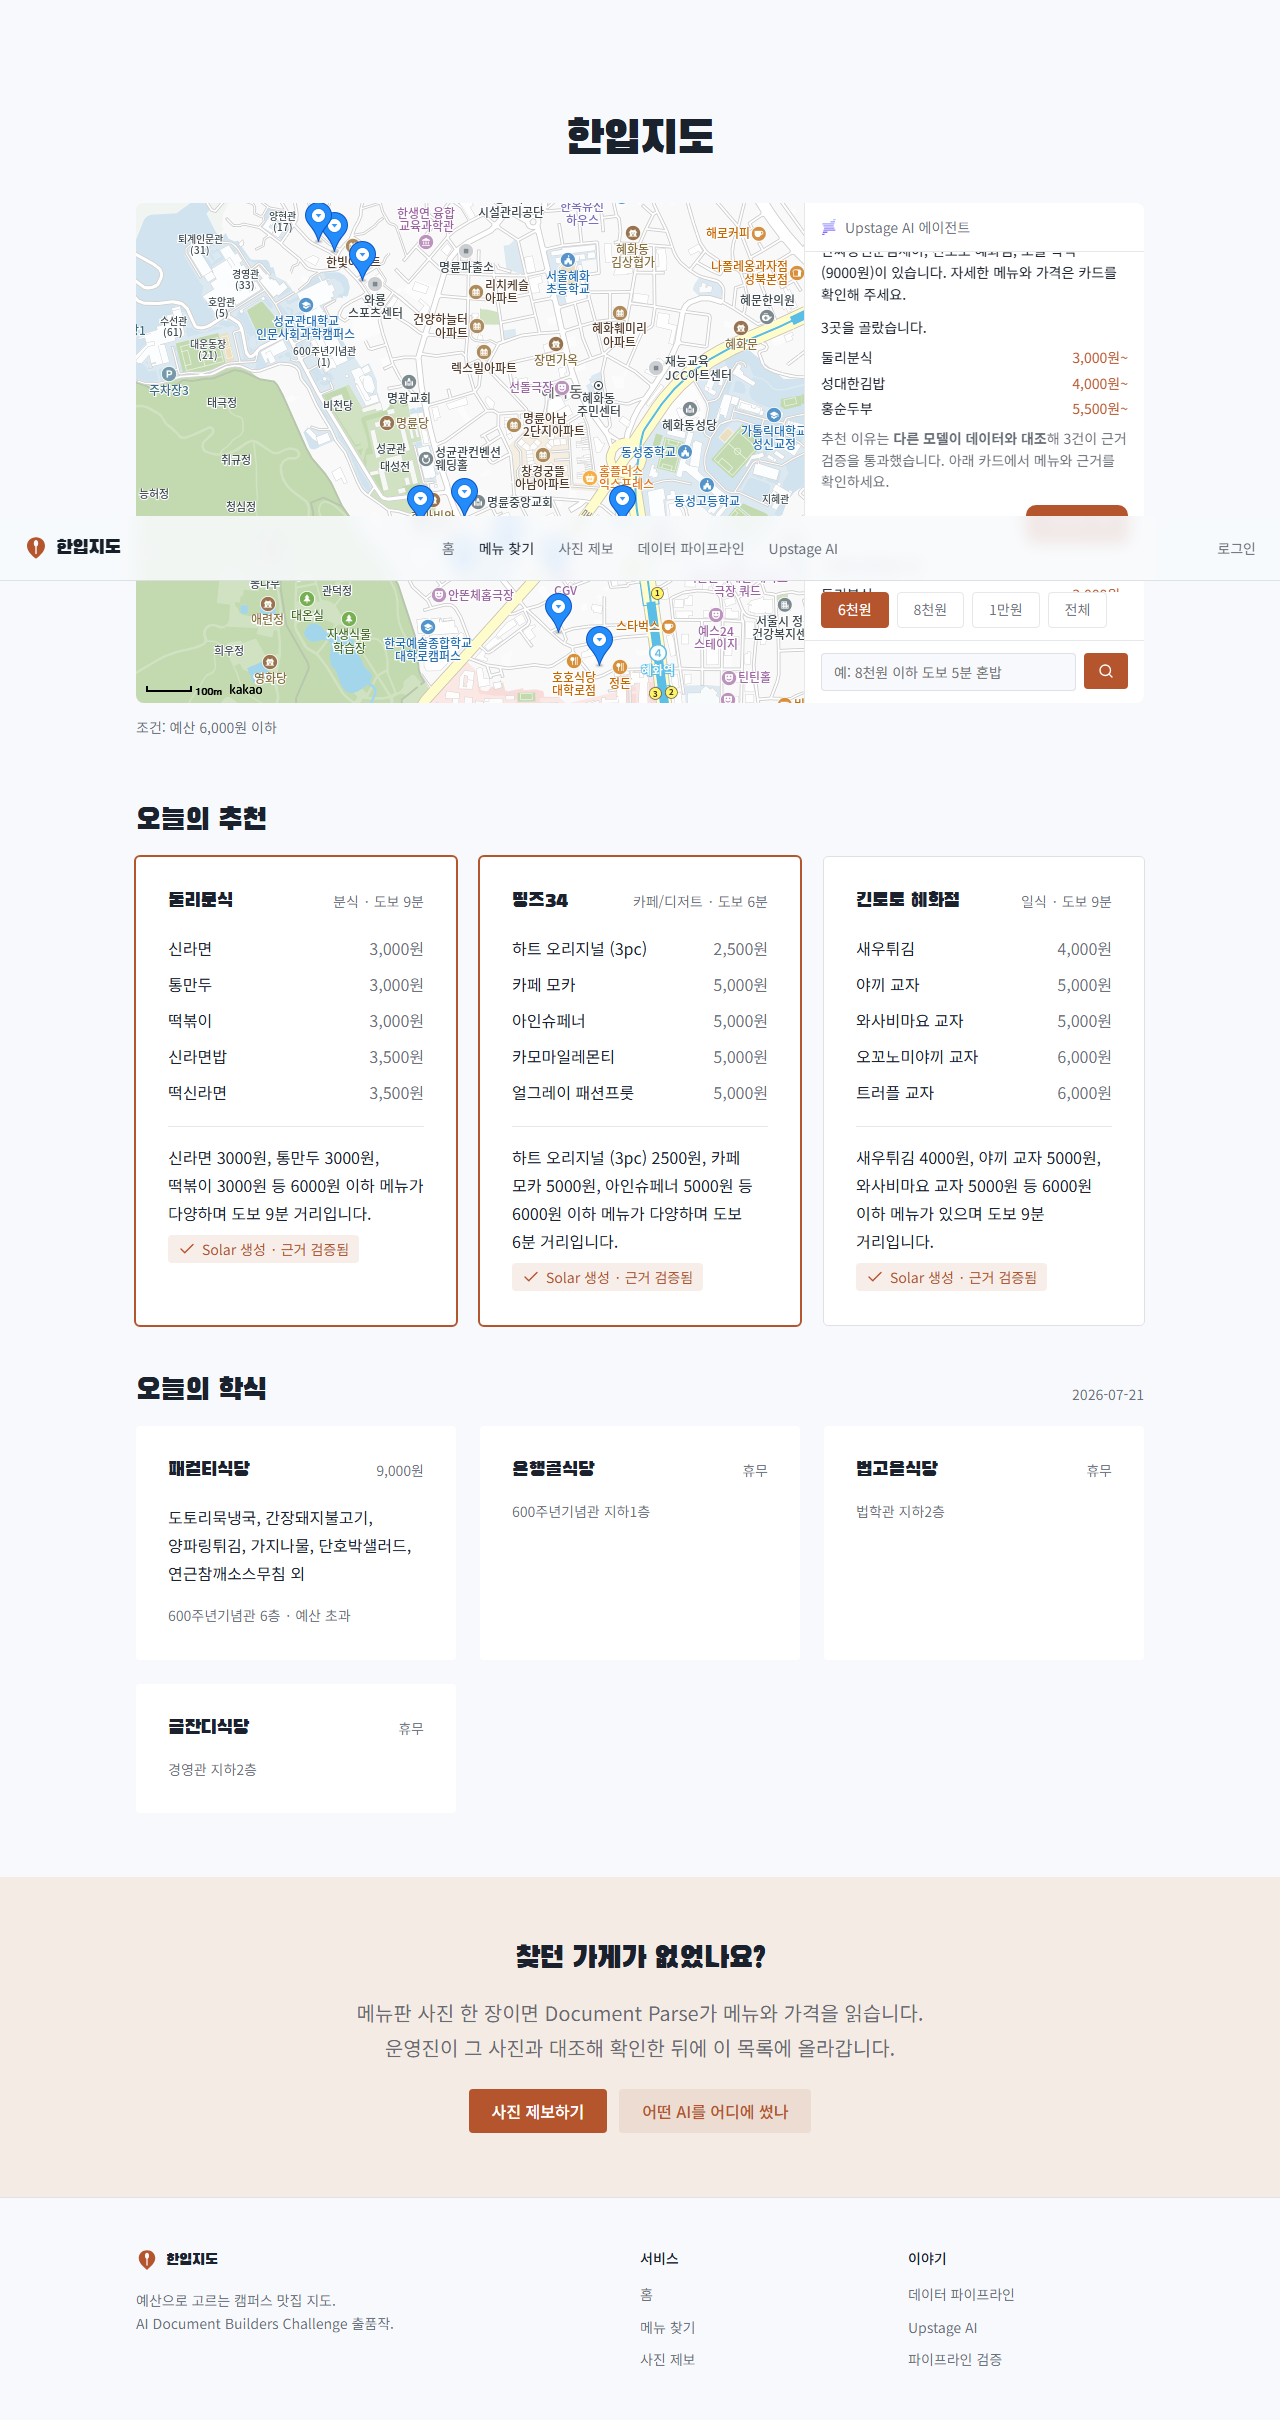
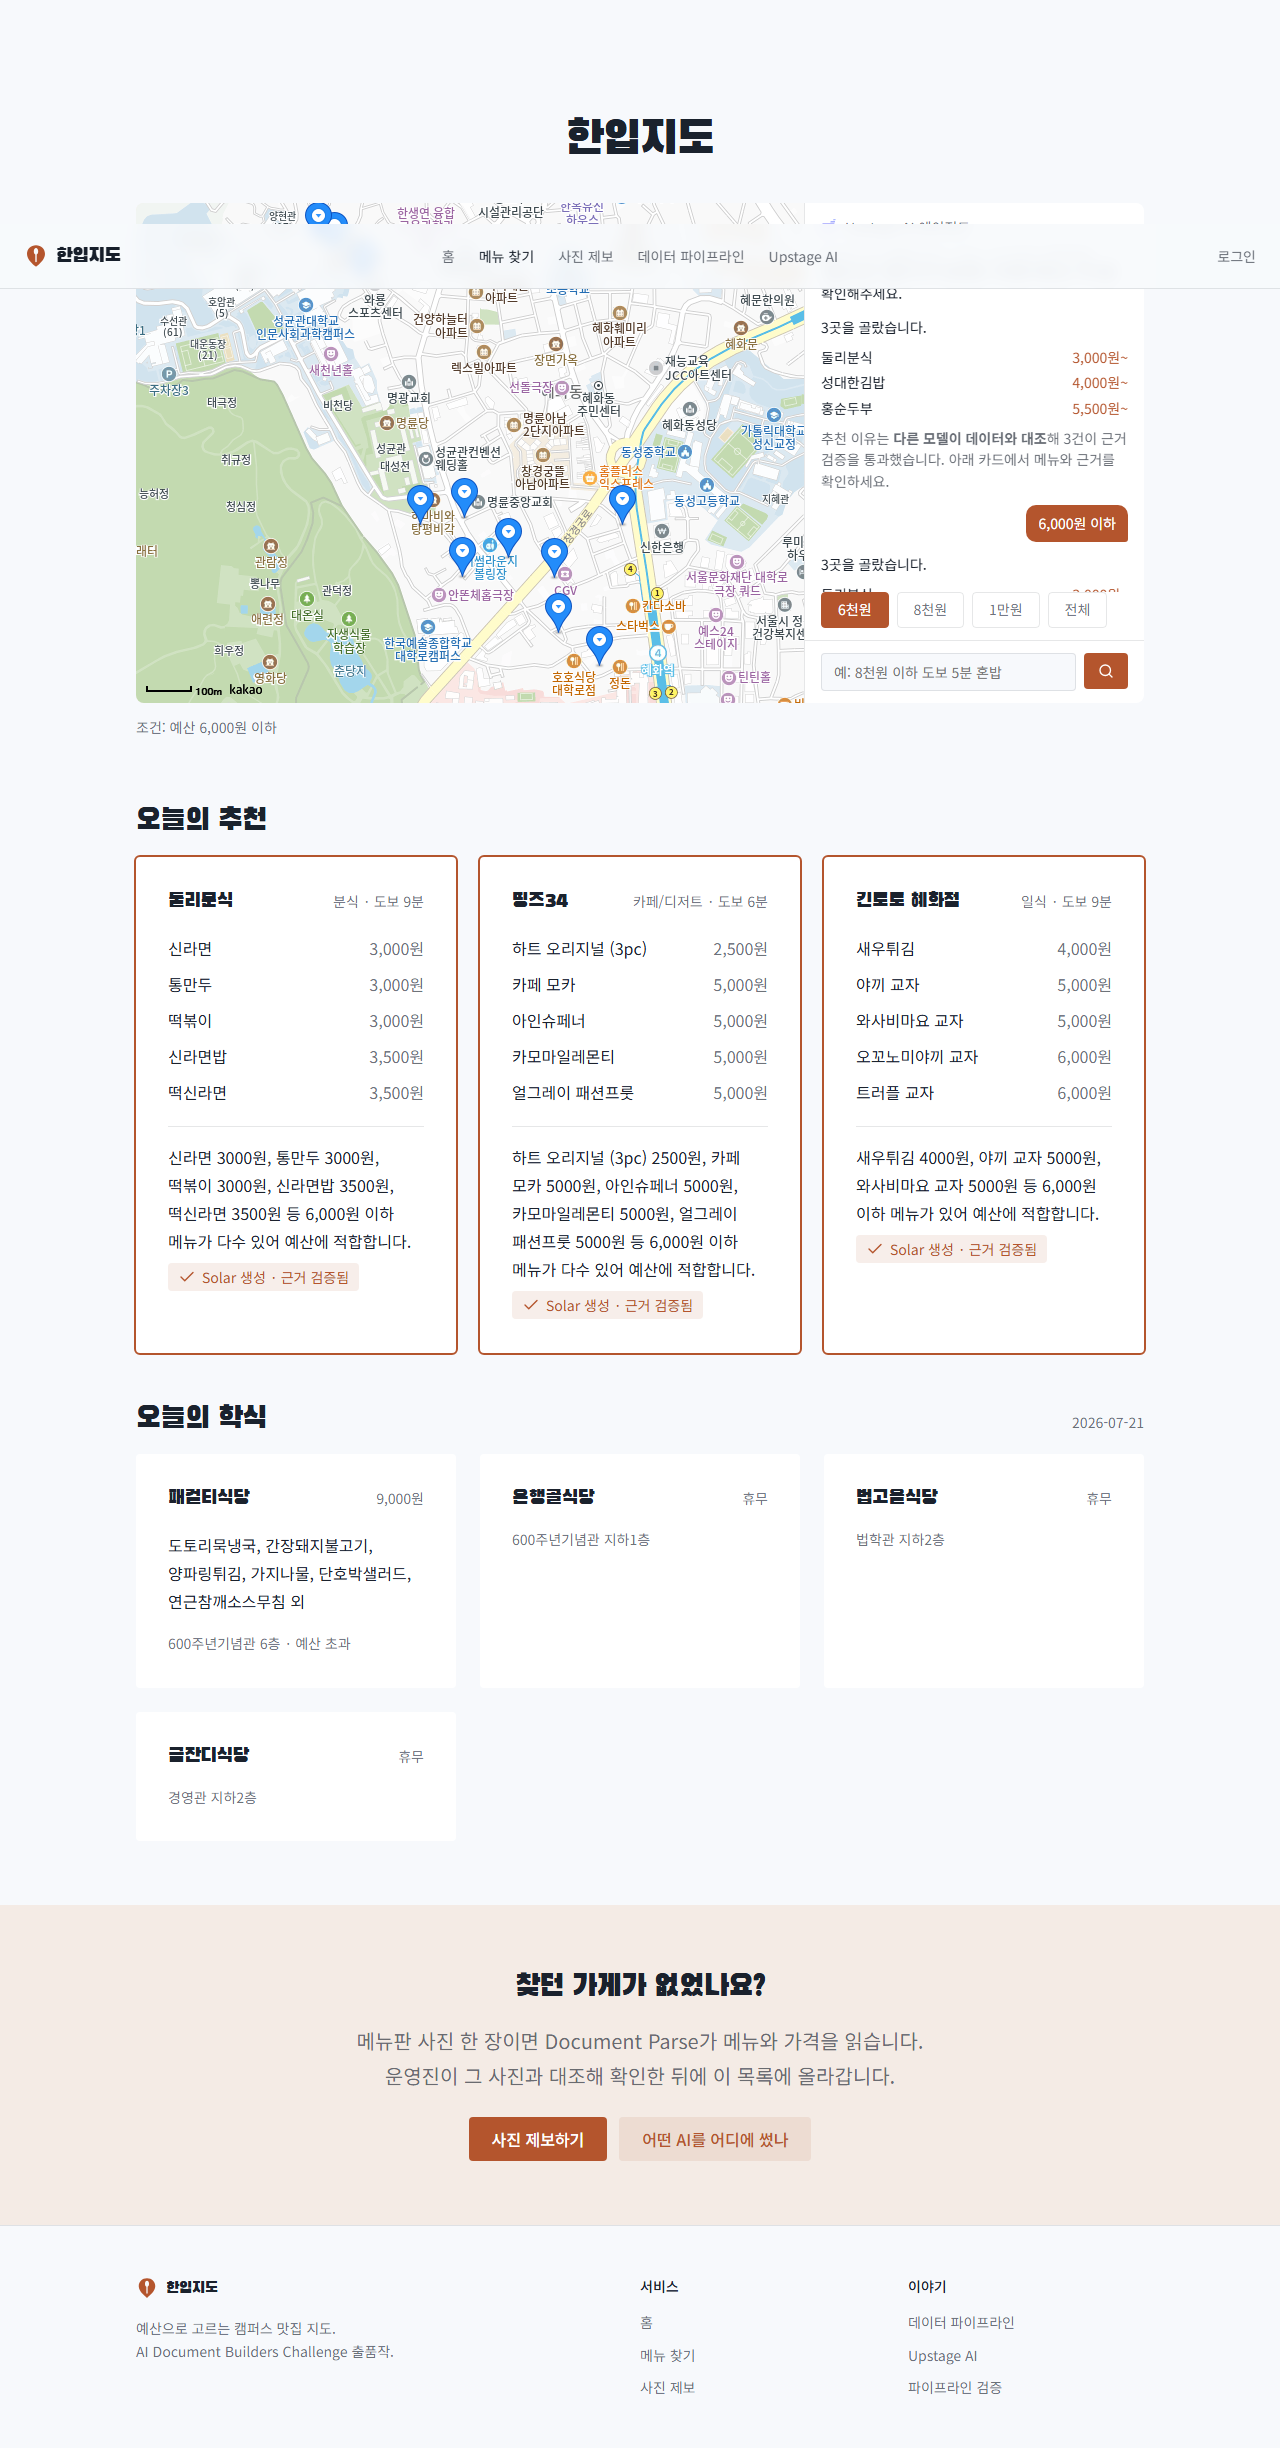
test(DR10): 품질 마감 통합 검증
- 단위 29/29(조건 추출) + 41/41(사이드 판정), smoke 14/14, 6페이지 200 / test.html 404,
  곁들임 회귀 1,000·2,000원 picks 0, 콘솔 red 0.
- smoke 허수 재확인: 학식 셀렉터 2개를 깨뜨려 배포 → exit 1(5항목 FAIL), 원복 후 14/14 exit 0.
- 독립 검증 1차 confirmed. 지적된 cron 메서드 가드 추가(GET→401, POST/PUT→405) —
  시크릿만 보고 통과시키면 시크릿이 새는 날 POST 로도 돌릴 수 있다.
- verification/matrix.md #113-132.

이번에 값비쌌던 것: 자동화가 새 실패 유형을 데려왔다. 사람이 돌릴 땐 안 보이던 멱등 결함이
cron 첫 실행에서 바로 터졌다 — 자동화는 "돌아간다"가 아니라 "두 번 돌려도 같은가"로 본다.

diff --git a/api/cron/crawl-cafeteria.js b/api/cron/crawl-cafeteria.js
@@ -17,6 +17,8 @@ import { crawlCafeteria, toSheetRows, dedupeAgainst, todayKST } from "../_lib/ca
 import { listRows, appendRows, sheetWriteReady } from "../_lib/sheet-write.js";
 
 export default async function handler(req, res) {
+  // Vercel Cron 은 GET 만 보낸다. 시크릿만 보고 통과시키면 시크릿이 새는 날 POST 로도 돌릴 수 있다.
+  if (req.method !== "GET") return res.status(405).json({ error: "GET only", code: "method_not_allowed" });
   const secret = process.env.CRON_SECRET;
   if (secret) {
     const auth = req.headers?.authorization ?? "";

diff --git a/verification/matrix.md b/verification/matrix.md
@@ -280,3 +280,36 @@ E2E 대상: `experiments/parse-poc/photos/web/web-10-파스타마켓혜화본점
   문장만 통과하고 다음 문형에서 샌다(2회차). 확정적으로 뽑히는 값은 코드가 뽑고, 모델은
   사람 말로 답하는 일만 맡는 구조로 바꾼 뒤에야 회귀가 멈췄다.
 - 프롬프트 회귀는 단위 테스트가 못 잡는다 → `scripts/test-chat-extract.mjs` 29종으로 문형을 고정했다.
+
+## DR10 — 품질 마감 (2026-07-21)
+
+전수 QA 감사(독립) 선행 → BLOCKER 1·MAJOR 3·MINOR 4 확보 후 착수.
+
+| # | 항목 | 결과 |
+|---|---|---|
+| 113 | **BLOCKER: 대화 필터 원문 복귀** (step-1) | `search=false` 턴 문장 필터가 **전부 걸러지면 원문으로 되돌아갔다** — 필터를 안 건 것과 같다. 실제로 "asdkjqwoie…" 입력에 "8,000원 이하 소반·홍순두부 추천" 이 화면의 다른 가게 카드와 함께 나갔다. 안전 문장으로 대체 |
+| 114 | 조건 없는 입력 | 5종 × 2회 = **10/10 어긋남 0**(금액 주장·카드 안내 0건) |
+| 115 | **필터 프로브** | 전 문장이 금액·카드로 채워진 응답을 넣어도 안전 문장으로 떨어지고, budget 있는 턴은 금액 문장 보존 |
+| 116 | 학식 cron (step-2) | `vercel.json` crons 매일 21:10 UTC(06:10 KST). 시크릿 없이 → **401**, GET 외 메서드 → **405** |
+| 117 | **cron 중복 사고와 원인** | 첫 실행이 같은 5행을 또 넣었다. 시트가 날짜를 `2026-07-12T15:00:00.000Z`(KST 자정의 UTC 표기)로 돌려주는데 크롤 값은 `2026-07-13` 이라 **멱등 키가 영원히 안 맞았다**. `normDate` 로 해소 → 재실행 `appended 0 / skipped 5` |
+| 118 | 읽기 측 중복 제거 | 이미 들어간 중복은 화면에 남으므로 `loadSheetData` 에서도 걸러낸다 → 학식 14행 → **9행**, 오늘 카드 메뉴 12개(두 배 아님) |
+| 119 | **크롤 실패 프로브** | 학교 페이지가 죽은 상황(잘못된 base 주입) → `status:"error"` · 시트 미변경 · 500 아님 |
+| 120 | 크롤 로직 공유 | 서버·스크립트가 `api/_lib/cafeteria-crawl.js` 하나를 쓴다. 스크립트 124→**55줄** |
+| 121 | 데모 마커 (step-3) | 회색 원 → SVG 핀. **마커 22개 = 시뮬 대상 22곳**(좌표 보유 23곳 중 1곳 제외) |
+| 122 | 데모 입력 CTA | 대본 정지 → "여기는 소개용 데모" 안내 + `/app.html?q=…` 버튼. 클릭 시 실제 검색으로 카드 3장 + 근거 배지. 카드 높이 485 고정·스크롤바 0 |
+| 123 | 모바일 nav (step-4) | 390px 에서 `Upstage AI` 13px 잘림 — **실제로는 스크롤됐지만 알 방법이 없어 고장으로 읽혔다**. 여백 축소 + 오른쪽 페이드, 끝에 닿으면 페이드 해제(`nav.js`) |
+| 124 | nav 일관성 | 배포본 5페이지 전부 **5항목**(contribute.html 에 빠졌던 `Upstage AI` 추가) |
+| 125 | `/test.html` | 배포 제외 → **404**. 파일은 원복 경로로 보존 |
+| 126 | 헤드라인 간격 | `.amt` 고정폭 가운데 정렬 탓에 "8천원 으로" 로 띈 것처럼 보임 → 오른쪽 정렬. 금액 길이 3종에서 확인 |
+| 127 | review 토큰 폼 | `<form>` 으로 감싸 콘솔 경고 해소 + 엔터 제출. click 핸들러를 submit 으로 이관 |
+| 128 | 이슈 ⑦ (step-5) | 칵테일 4행 `비고='사이드'` → `isSide=true`. 사이드 83→87. **양방향 override**(`사이드`/`한끼`) 단위 4/4 |
+| 129 | **이슈 ⑥ 진짜 원인** | 훅 문구는 이미 상류에서 정본 경로로 고쳐져 있었다(머신별 경로 2026-07-20 기각). 진짜 원인은 **이 레포가 `work.json` 을 git 추적**한 것 — 파일이 기기 사이를 오가며 서로를 덮어썼다. gitignore 로 이관, 이력은 ledger(3-event × 12)·ROADMAP(13 milestone)에 보존 확인 후 제거 |
+| 130 | 완료 규칙 명문화 | `AGENTS.md`·`CLAUDE.md` 에 "ledger·ROADMAP·work.json 셋 다" 규칙 추가 |
+| 131 | **smoke 허수 재확인** (step-6) | 학식 셀렉터 2개를 깨뜨려 배포 → **exit 1, 5항목 FAIL**. 원복 후 14/14 exit 0 |
+| 132 | 전체 회귀 | 단위 29/29 + 41/41 · smoke **14/14** · 6페이지 200 / test.html 404 · 곁들임 1,000·2,000원 picks 0 · 콘솔 red 0 |
+
+**DoD 충족**: ① 조건 없는 입력에 화면과 어긋나는 문장 0건 ② cron 실제 실행 관측·스케줄 등록 ③ 데모 카드 마커·입력 유도 ④ nav 동일·모바일 잘림 0·test.html 비공개 ⑤ 이슈 ⑥⑦ 닫힘 ⑥ 전부 PASS·콘솔 red 0.
+
+### 부수 관측
+- **자동화가 새 실패 유형을 데려왔다**: 사람이 돌릴 땐 안 보이던 멱등 결함(날짜 표기 불일치)이 cron 첫 실행에서 바로 터졌다. 자동화는 "돌아간다"가 아니라 **"두 번 돌려도 같은가"** 로 검증해야 한다.
+- 독립 QA 감사를 먼저 돌린 게 이번 milestone 의 출발점이었다 — 내가 직전 라운드에 만든 BLOCKER 를 나 스스로는 못 찾았다.